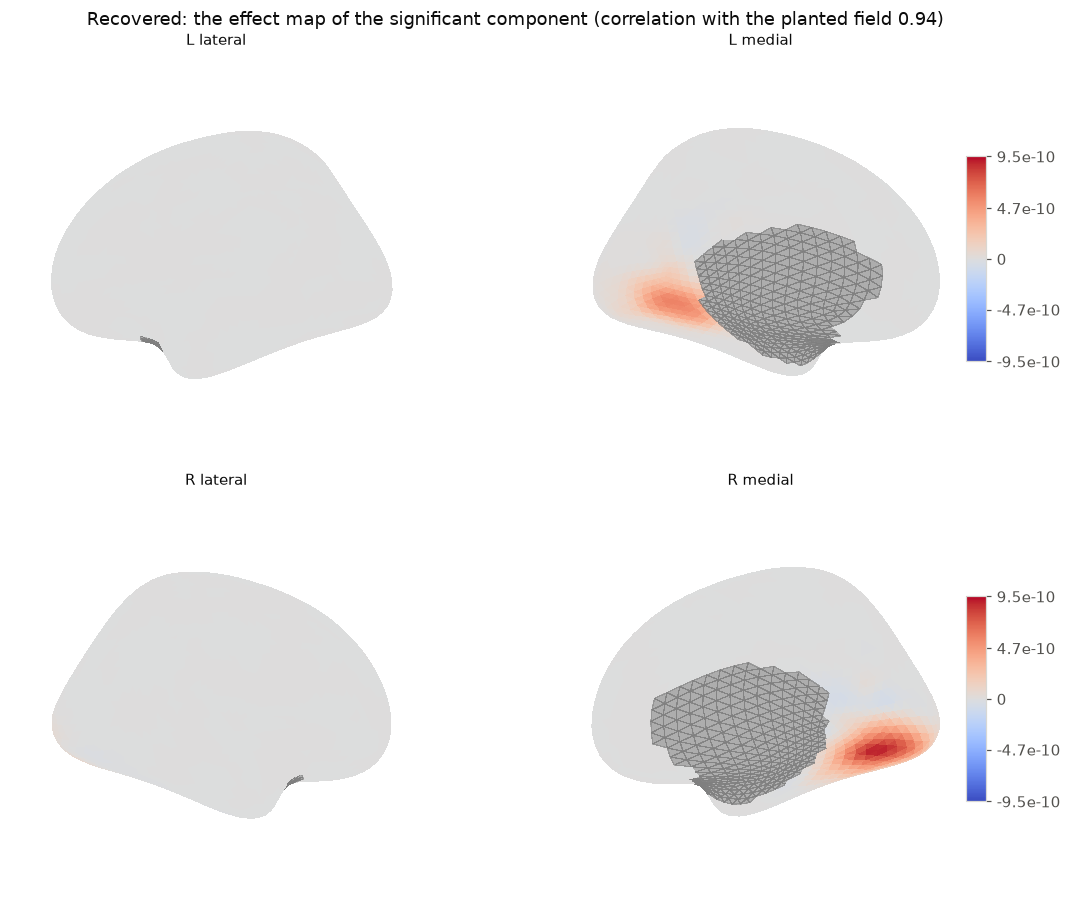
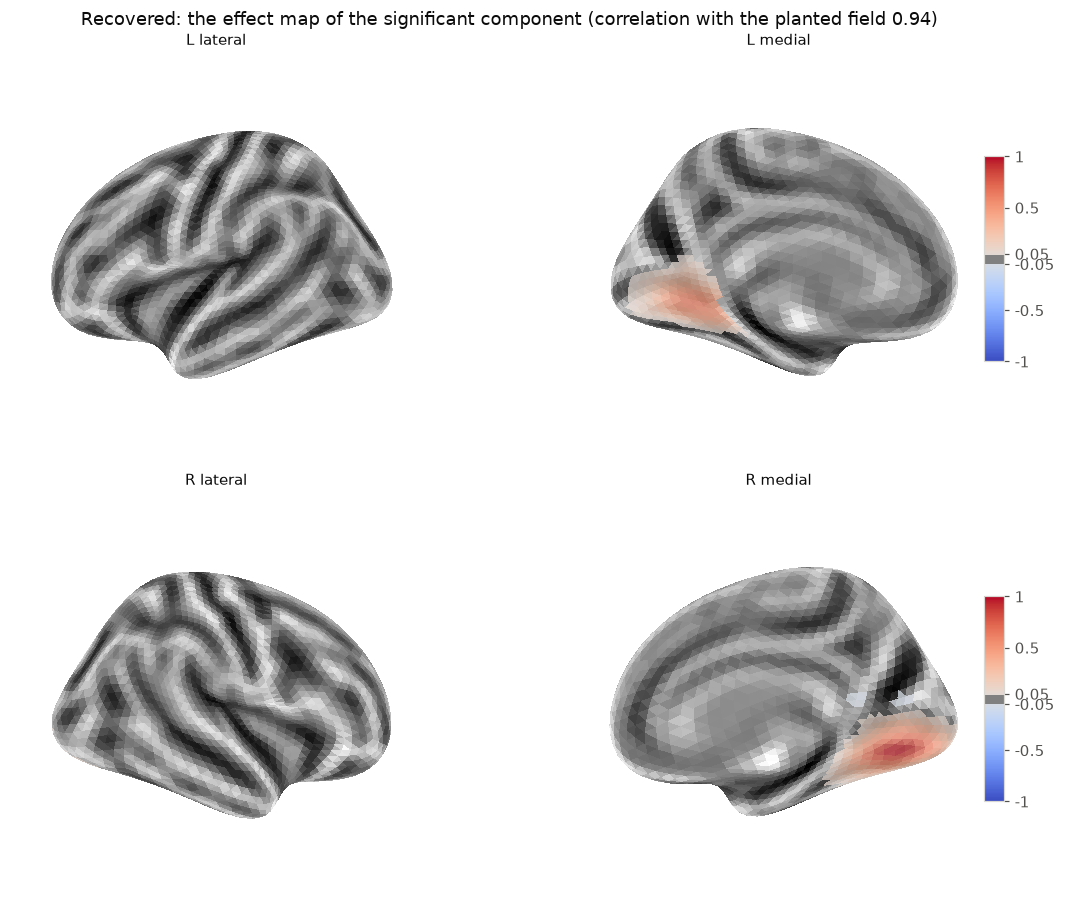
Shade surface figures by sulcal depth, so the cortex is visible under the map
A map that is near zero over most of the cortex left the brain an unreadable
white: nilearn draws an unshaded mesh under the data, and a light-to-dark
ramp puts white everywhere the value is small. plot_surface() now shades
the surface by a sulcal-depth map computed from the bundled white surface
(sbci.surface.sulcal_depth: the signed distance of each vertex to the mean
of its neighbourhood, along the outward normal, dark in the sulci) and lays
the map over it with nilearn's bg_on_data, so the folds show through the
way they do in FreeSurfer's and nilearn's own figures. Vertices with no
value, the medial wall, appear as bare shaded surface instead of a
wireframe. shading=False draws the old bare mesh; a bg_map of your own is
respected. vertex_normals() is public alongside.

The example figures are redrawn on the shaded surface with the small
values thresholded so the shading shows where there is nothing to see: the
seed profile relative to its peak on a 200,000-streamline example, the
planted bundle and the recovered effect map, coupling from zero, and the
Desikan matrix on the top four decades of its log scale rather than nine
(which had turned it into speckle). Two tests cover the shading map and
the unshaded path; 680 tests pass.

diff --git a/scripts/make_figures.py b/scripts/make_figures.py
@@ -31,6 +31,13 @@ BLUE_RAMP = LinearSegmentedColormap.from_list(
     "sbci_blue",
     ["#f4f8fd", "#cde2fb", "#9ec5f4", "#6da7ec", "#3987e5", "#256abf", "#184f95", "#0d366b"],
 )
+# On the shaded surface the map is thresholded, so its ramp can start visible.
+SURFACE_RAMP = LinearSegmentedColormap.from_list(
+    "sbci_surface", ["#b7d3f6", "#86b6ef", "#5598e7", "#2a78d6", "#1c5cab", "#104281", "#0d366b"]
+)
+#: Streamlines for the single-subject figures: ten times the example's default,
+#: so the profile and the region matrix are smooth rather than speckled.
+N_STREAMLINES = 200_000
 VIEWS = ("lateral", "medial")
 
 plt.rcParams.update(
@@ -59,20 +66,26 @@ def save(figure, out: Path, name: str, dpi: int = 110) -> None:
 
 def seed_profile(out: Path, cc) -> None:
     profile = cc.seed(vertex=1234)
-    figure = cc.plot(profile, views=VIEWS, cmap=BLUE_RAMP)
-    figure.suptitle("Connectivity of one vertex (1234, left hemisphere) over the cortex", y=1.02)
+    profile = profile / profile.max()  # unit-mass densities are 1e-10 per pair; show the shape
+    figure = cc.plot(profile, views=VIEWS, cmap=SURFACE_RAMP, threshold=0.02, vmin=0.02, vmax=1.0)
+    figure.suptitle(
+        "Connectivity of one vertex (1234, left temporal cortex), relative to its peak", y=1.02
+    )
     save(figure, out, "seed_profile.png")
 
 
 def region_matrix(out: Path, cc) -> None:
     atlas = sbci.load_atlas("Desikan")
     matrix = cc.to_atlas(atlas, how="mass")
-    positive = matrix[matrix > 0]
+    # A log scale over the full range spans nine decades and turns the matrix
+    # into speckle; the top four decades carry the structure, and anything
+    # fainter is drawn as "no connection".
+    top = float(matrix.max())
     figure, axis = plt.subplots(figsize=(6.2, 5.4))
     image = axis.imshow(
         np.where(matrix > 0, matrix, np.nan),
         cmap=BLUE_RAMP,
-        norm=LogNorm(vmin=positive.min(), vmax=positive.max()),
+        norm=LogNorm(vmin=top * 1e-4, vmax=top),
         interpolation="nearest",
     )
     half = atlas.n_regions // 2
@@ -87,7 +100,7 @@ def region_matrix(out: Path, cc) -> None:
     for spine in axis.spines.values():
         spine.set_visible(False)
     bar = figure.colorbar(image, ax=axis, fraction=0.046, pad=0.03)
-    bar.set_label("mass between the two regions (log scale)", color=MUTED)
+    bar.set_label("mass between the two regions (log scale, top four decades)", color=MUTED)
     bar.outline.set_visible(False)
     axis.set_title("The synthetic subject parcellated with the Desikan atlas (68 regions)")
     save(figure, out, "region_matrix.png")
@@ -97,7 +110,7 @@ def coupling(out: Path, sc, fc) -> None:
     values = sc.coupling(fc)
     # Coupling is high almost everywhere on the synthetic pair, so a symmetric
     # scale would paint the whole surface one shade: run the ramp from zero.
-    figure = sc.plot(values, views=VIEWS, cmap=BLUE_RAMP, symmetric=False, vmin=0.0)
+    figure = sc.plot(values, views=VIEWS, cmap=SURFACE_RAMP, symmetric=False, vmin=0.0)
     figure.suptitle(
         "Structure-function coupling: cosine similarity of the SC and FC profiles", y=1.02
     )
@@ -117,14 +130,17 @@ def cohort_figures(out: Path) -> None:
     print(f"  significant components: {found.tolist()}, adjusted p {adjusted}")
     subject = cohort.connectomes[0]
 
-    figure = subject.plot(cohort.truth, views=VIEWS, cmap=BLUE_RAMP, vmin=0.0, vmax=1.0)
+    figure = subject.plot(
+        cohort.truth, views=VIEWS, cmap=SURFACE_RAMP, threshold=0.02, vmin=0.02, vmax=1.0
+    )
     figure.suptitle(
         "The planted bundle: the field one bundle's weight scales with age (cohort.truth)", y=1.02
     )
     save(figure, out, "cohort_truth.png")
 
     effect = result.effect_map(reduction, alpha=0.05)
-    figure = subject.plot(effect, views=VIEWS, cmap="coolwarm", symmetric=True)
+    effect = effect / np.abs(effect).max()
+    figure = subject.plot(effect, views=VIEWS, cmap="coolwarm", symmetric=True, threshold=0.05)
     correlation = np.corrcoef(effect, cohort.truth)[0, 1]
     figure.suptitle(
         f"Recovered: the effect map of the significant component "
@@ -205,7 +221,7 @@ def main(argv: list[str]) -> int:
     out = Path(argv[1]) if len(argv) > 1 else Path("docs/figures")
     out.mkdir(parents=True, exist_ok=True)
     print("single subject", flush=True)
-    sc, fc = sbci.example("sc"), sbci.example("fc")
+    sc, fc = sbci.example("sc", n_streamlines=N_STREAMLINES), sbci.example("fc")
     seed_profile(out, sc)
     region_matrix(out, sc)
     coupling(out, sc, fc)

diff --git a/src/sbci/surface.py b/src/sbci/surface.py
@@ -141,3 +141,63 @@ def load_surface(name: str = "inflated") -> Surface:
     vertices.setflags(write=False)
     faces.setflags(write=False)
     return Surface(name=name, vertices=vertices, faces=faces)
+
+
+SHADING_PASSES = 4
+"""Neighbourhood-averaging passes behind :func:`sulcal_depth`: about a
+centimetre of smoothing at ico4 resolution, the scale of a sulcus."""
+
+
+def vertex_normals(vertices, faces) -> np.ndarray:
+    """Unit outward normals at the vertices: area-weighted means of the face normals."""
+    vertices = np.asarray(vertices, dtype=np.float64)
+    faces = np.asarray(faces, dtype=np.int64)
+    corners = vertices[faces]
+    face_normals = np.cross(corners[:, 1] - corners[:, 0], corners[:, 2] - corners[:, 0])
+    normals = np.zeros_like(vertices)
+    for k in range(3):
+        np.add.at(normals, faces[:, k], face_normals)
+    lengths = np.linalg.norm(normals, axis=1, keepdims=True)
+    return np.divide(normals, lengths, out=np.zeros_like(normals), where=lengths > 0)
+
+
+@lru_cache(maxsize=1)
+def sulcal_depth() -> np.ndarray:
+    """A sulcal-depth map over the grid, for shading figures.
+
+    Positive in sulci and negative on gyral crowns, like FreeSurfer's ``sulc``,
+    so that drawn in grayscale under a surface map it darkens the fundi and
+    lets the folds show through. It is the signed distance, along the outward
+    normal, from each white-surface vertex to the mean of its neighbourhood
+    after :data:`SHADING_PASSES` passes of neighbour averaging -- cheap, needs
+    no FreeSurfer, and at ico4 resolution follows the gyral pattern well
+    enough to shade a figure. In millimetres, roughly -3 to 3; the returned
+    array is read-only and shared.
+
+    Examples
+    --------
+    >>> from sbci.surface import sulcal_depth
+    >>> depth = sulcal_depth()
+    >>> depth.shape
+    (5124,)
+    >>> bool(0.3 < (depth > 0).mean() < 0.7)   # sulci and gyri in comparable measure
+    True
+    """
+    from scipy import sparse
+
+    white = load_surface("white")
+    vertices = np.asarray(white.vertices, dtype=np.float64)
+    faces = np.asarray(white.faces, dtype=np.int64)
+    n = vertices.shape[0]
+    rows = faces[:, [0, 1, 2, 0, 1, 2]].ravel()
+    cols = faces[:, [1, 2, 0, 2, 0, 1]].ravel()
+    adjacency = sparse.coo_matrix((np.ones(rows.size), (rows, cols)), shape=(n, n)).tocsr()
+    adjacency.data[:] = 1.0  # an edge shared by two faces counts once
+    degree = np.asarray(adjacency.sum(axis=1)).ravel()
+    averaging = sparse.diags(1.0 / np.maximum(degree, 1)) @ adjacency
+    smoothed = vertices
+    for _ in range(SHADING_PASSES):
+        smoothed = averaging @ smoothed
+    depth = ((smoothed - vertices) * vertex_normals(vertices, faces)).sum(axis=1)
+    depth.setflags(write=False)
+    return depth

diff --git a/src/sbci/plotting.py b/src/sbci/plotting.py
@@ -8,16 +8,20 @@ are extras and the imports happen inside the call.
 
 The standard neuroimaging view of a whole-brain map is four panels -- each
 hemisphere seen laterally and medially -- and that is what
-:func:`plot_surface` produces by default. A map with NaNs, as
-:func:`sbci.coupling.global_coupling` returns for the medial wall, renders
-those vertices in the background colour rather than at one end of the scale.
+:func:`plot_surface` produces by default. The surface is shaded by sulcal
+depth (:func:`sbci.surface.sulcal_depth`), so the folds show through the map
+the way they do in FreeSurfer's and nilearn's own figures; without it a map
+that is small over most of the cortex leaves the brain an unreadable white.
+A map with NaNs, as :func:`sbci.coupling.global_coupling` returns for the
+medial wall, renders those vertices as bare shaded surface rather than at
+one end of the scale.
 """
 
 from __future__ import annotations
 
 import numpy as np
 
-from .surface import GEOMETRIES, load_surface
+from .surface import GEOMETRIES, load_surface, sulcal_depth
 
 SURFACES = GEOMETRIES
 VIEWS = ("lateral", "medial", "dorsal", "ventral", "anterior", "posterior")
@@ -46,6 +50,7 @@ def plot_surface(
     vmax: float | None = None,
     title: str | None = None,
     symmetric: bool | None = None,
+    shading: bool = True,
     **kwargs,
 ):
     """Render a per-vertex map on a cortical surface.
@@ -68,6 +73,11 @@ def plot_surface(
     symmetric
         Centre the colour scale on zero. Defaults to true when the map has
         both signs, which is what a coupling map usually wants.
+    shading
+        Shade the surface by sulcal depth from the white surface, darker in
+        the sulci, with the map's colours laid over it (``bg_on_data`` in
+        nilearn's terms). ``False`` draws the bare mesh under the map. Pass
+        your own ``bg_map`` through ``kwargs`` to shade by something else.
 
     Returns
     -------
@@ -130,6 +140,13 @@ def plot_surface(
 
     half = mesh.n_vertices // 2
     per_hemisphere = {"L": values[:half], "R": values[half:]}
+    if shading and "bg_map" not in kwargs:
+        depth = sulcal_depth()
+        backgrounds = {"L": depth[:half], "R": depth[half:]}
+        kwargs.setdefault("bg_on_data", True)
+        kwargs.setdefault("alpha", 1.0)
+    else:
+        backgrounds = {}
 
     figure, axes = plt.subplots(
         len(per_hemisphere),
@@ -156,6 +173,7 @@ def plot_surface(
                 colorbar=(column == len(views) - 1) and not constant,
                 axes=axes[row, column],
                 figure=figure,
+                **({"bg_map": backgrounds[side]} if side in backgrounds else {}),
                 **kwargs,
             )
             axes[row, column].set_title(f"{side} {view}", fontsize=10)

diff --git a/tests/test_surface.py b/tests/test_surface.py
@@ -214,3 +214,28 @@ def test_each_face_stays_within_one_hemisphere():
     left = faces < N_VERTICES_PER_HEMI
     assert np.all(left.all(axis=1) | (~left).all(axis=1))
     assert int(left.all(axis=1).sum()) == faces.shape[0] // 2
+
+
+def test_sulcal_depth_shades_both_ways_and_the_normals_point_outward():
+    """The shading map has sulci and gyri in comparable measure; the shared faces are outward."""
+    from sbci.surface import load_surface, sulcal_depth, vertex_normals
+
+    depth = sulcal_depth()
+    assert depth.shape == (N_VERTICES,) and np.isfinite(depth).all()
+    assert 0.3 < float((depth > 0).mean()) < 0.7
+    assert 0.5 < float(np.abs(depth).max()) < 20.0  # millimetres, at ico4 resolution
+    # On the sphere every normal must be radial, so the face list the white
+    # surface shares with it is oriented outward there too.
+    sphere = load_surface("sphere")
+    radial = sphere.vertices / np.linalg.norm(sphere.vertices, axis=1, keepdims=True)
+    normals = vertex_normals(sphere.vertices, sphere.faces)
+    assert float(((radial * normals).sum(axis=1) > 0.9).mean()) > 0.99
+    with pytest.raises(ValueError):
+        depth[0] = 1.0  # shared and frozen
+
+
+def test_plot_can_run_without_shading(surface_map):
+    from sbci.plotting import plot_surface
+
+    figure = plot_surface(surface_map, views=("lateral",), shading=False)
+    assert figure is not None

diff --git a/docs/figures/README.md b/docs/figures/README.md
@@ -10,12 +10,14 @@ python scripts/make_figures.py docs/figures
 
 which needs the plotting extra and takes a few minutes (a rank-4 FPCA on ten
 subjects and one ConSEAL registration); on a cluster, run it in a batch job.
-On the surface views, the gray mesh is the medial wall, which carries no
-cortex and no connectivity.
+The surface views are shaded by sulcal depth (dark in the sulci), computed
+from the bundled white surface; the medial wall, which carries no cortex,
+shows as bare shaded surface. Maps are thresholded at a few percent of their
+peak so that the shading shows where there is nothing to see.
 
 | Figure | What it shows |
 | --- | --- |
-| `seed_profile.png` | `cc.seed(vertex=1234)` on the inflated surface: the density of connections from one left-hemisphere vertex to every other |
+| `seed_profile.png` | `cc.seed(vertex=1234)` on the inflated surface: the density of connections from one left temporal vertex to every other, relative to its peak, for a 200,000-streamline example |
 | `region_matrix.png` | `cc.to_atlas("Desikan")`: the same subject collapsed to 68 regions, on a log scale |
 | `coupling.png` | `sc.coupling(fc)`: structure-function coupling of the matching SC and FC examples, one value per vertex |
 | `spherical_kernel.png` | the kernel `smooth(kernel="shk")` applies, at the released bandwidth and twice it, with its cutoffs |

diff --git a/USAGE.md b/USAGE.md
@@ -177,10 +177,13 @@ figure = sc.plot(coupling_map, title="SC-FC coupling", cmap="coolwarm")
 figure.savefig("coupling.png", dpi=150)
 ```
 
-Four panels, each hemisphere seen laterally and medially. Needs the plotting
-extra, which `setup_longleaf.sh` installs. Four geometries are bundled --
-inflated (the default), white, pial and sphere -- all in the grid's vertex
-order and sharing one face list (`SPEC_QUESTIONS.md` items 11 and 13).
+Four panels, each hemisphere seen laterally and medially, on a surface shaded
+by sulcal depth so the folds show through the map (`shading=False` draws the
+bare mesh; `threshold=` hides the small values so the shading shows there).
+Needs the plotting extra, which `setup_longleaf.sh` installs. Four geometries
+are bundled -- inflated (the default), white, pial and sphere -- all in the
+grid's vertex order and sharing one face list (`SPEC_QUESTIONS.md` items 11
+and 13).
 
 ## `save` and `sbci validate`
 

diff --git a/README.md b/README.md
@@ -58,8 +58,8 @@ drawn, not tracked.
 ![The connectivity of one vertex over the cortex](docs/figures/seed_profile.png)
 
 *`cc.plot(cc.seed(vertex=1234))`: the density of connections from one
-left-hemisphere vertex to every other, on the inflated surface. The gray mesh is
-the medial wall. More figures, all from the synthetic data, are in
+left temporal vertex to every other, on the inflated surface shaded by sulcal
+depth. More figures, all from the synthetic data, are in
 [docs/figures](docs/figures/README.md).*
 
 ## With real data
